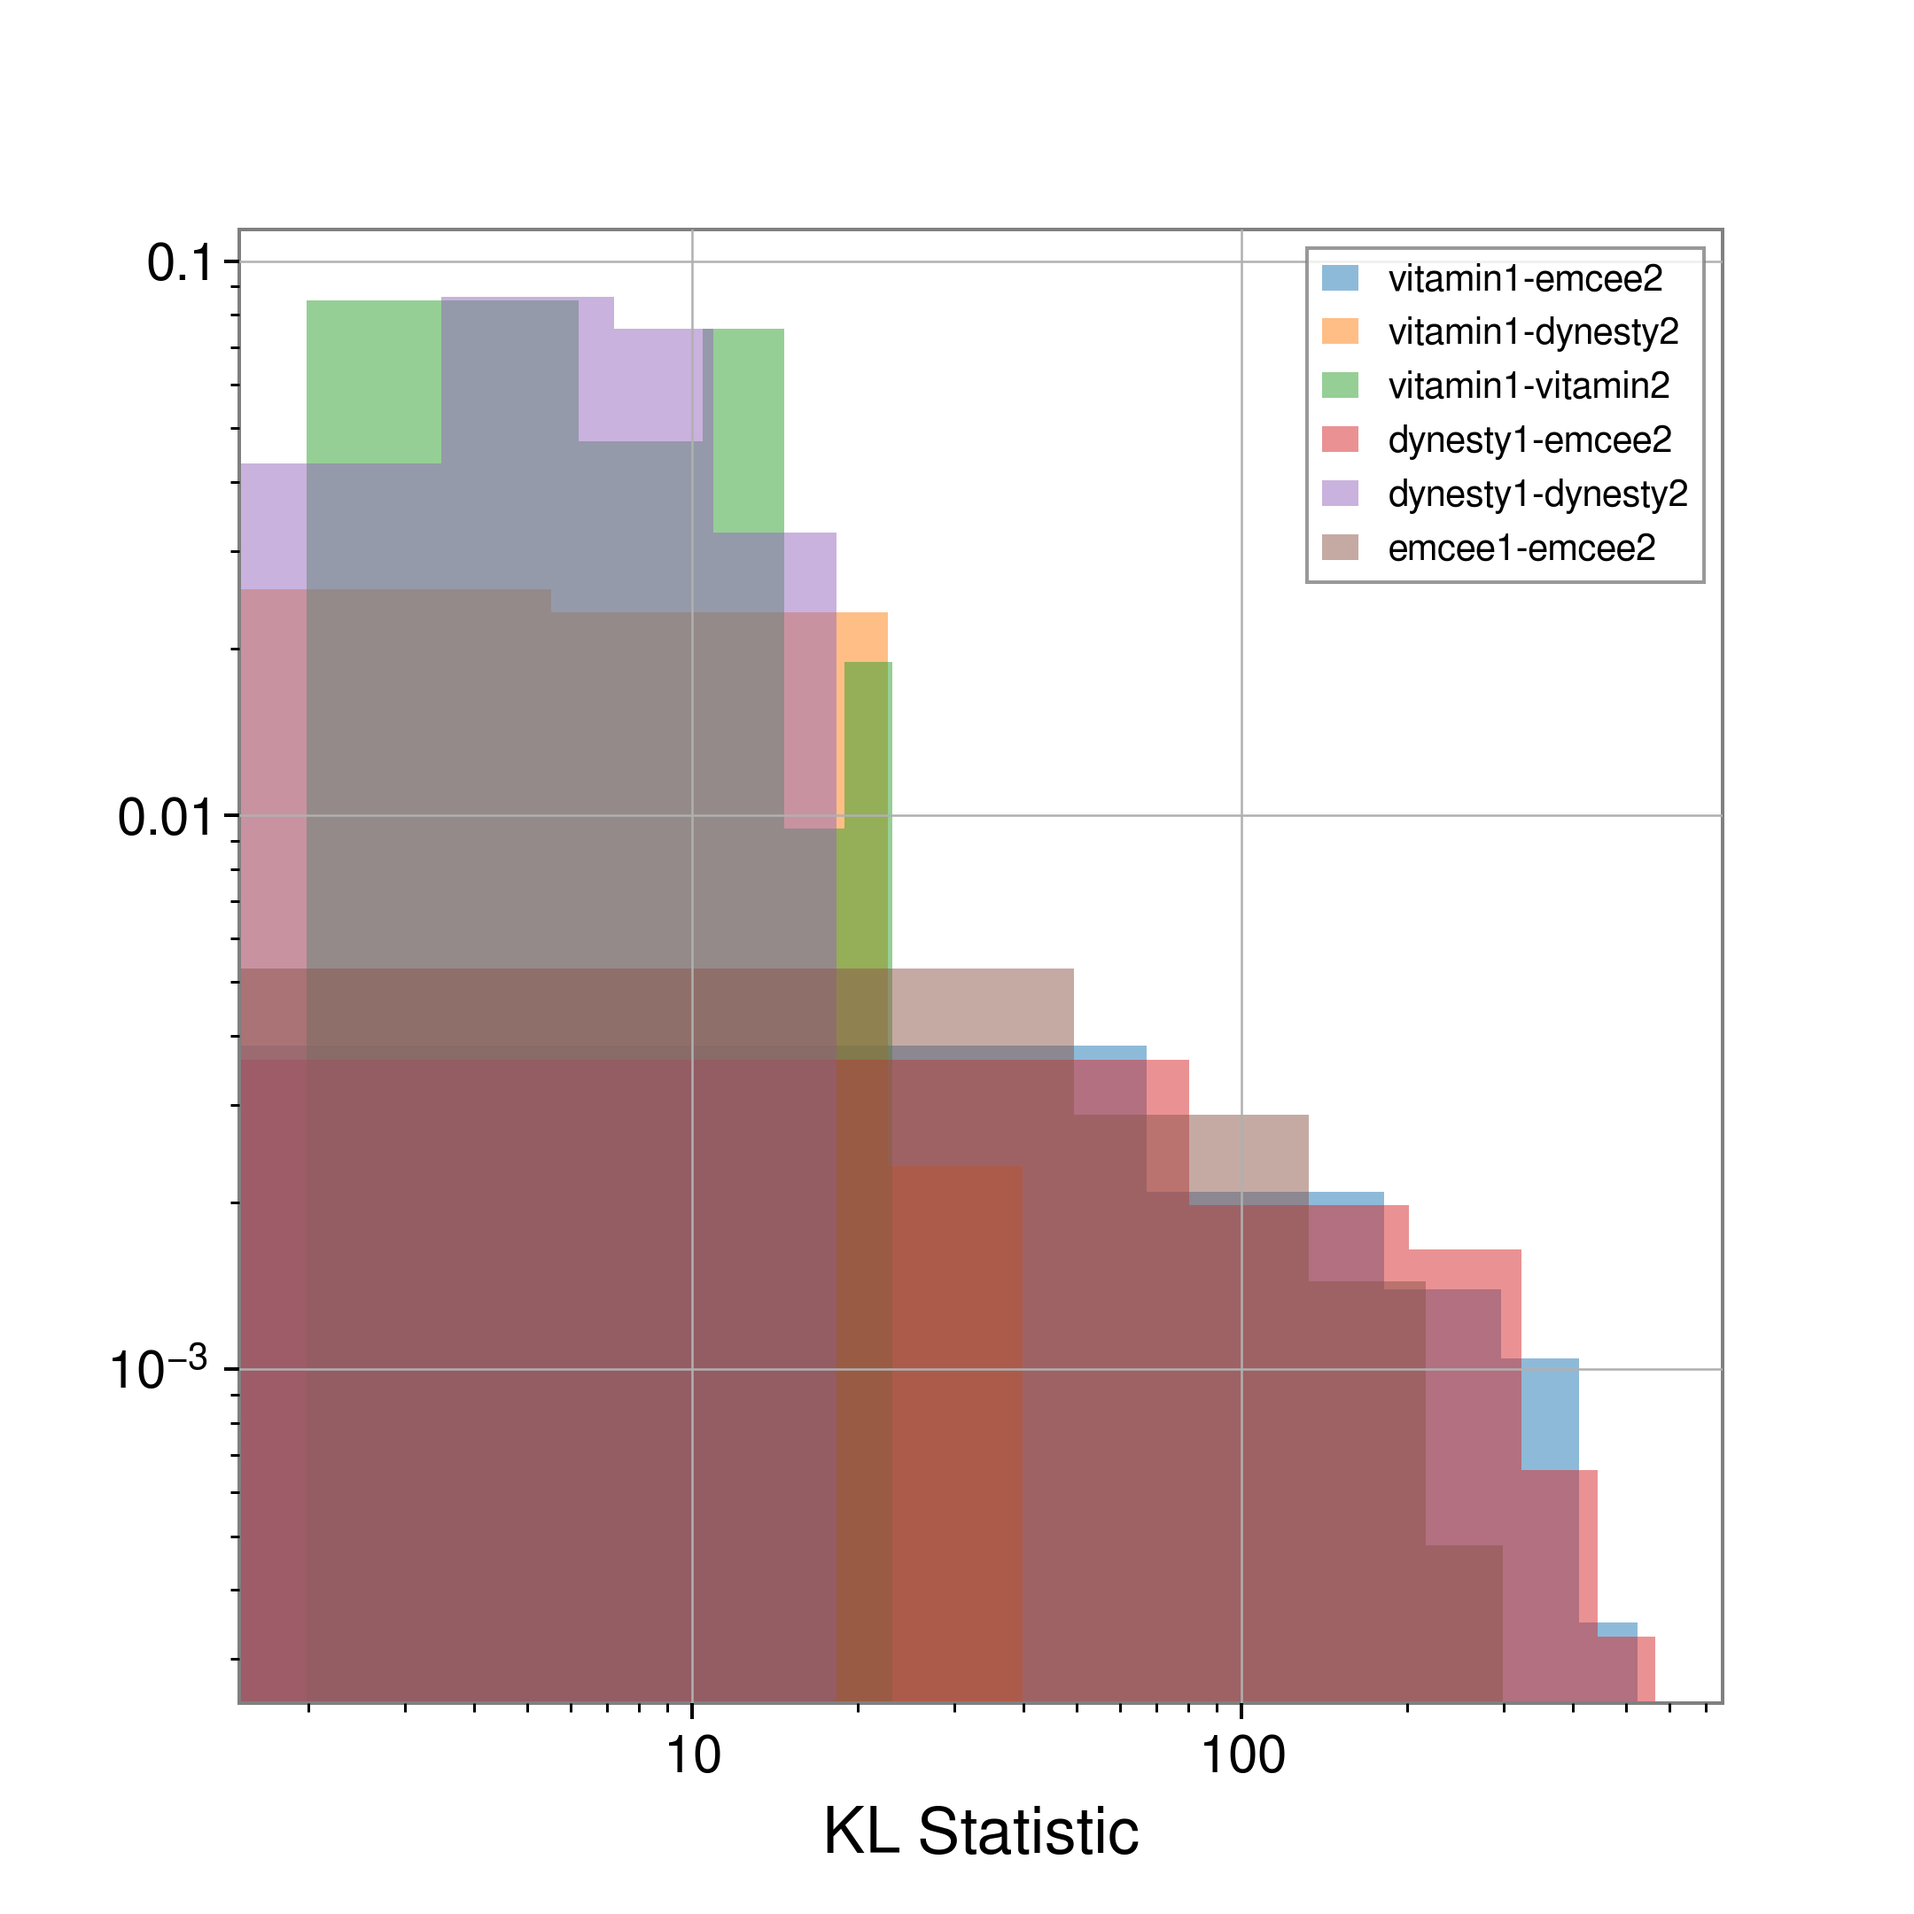
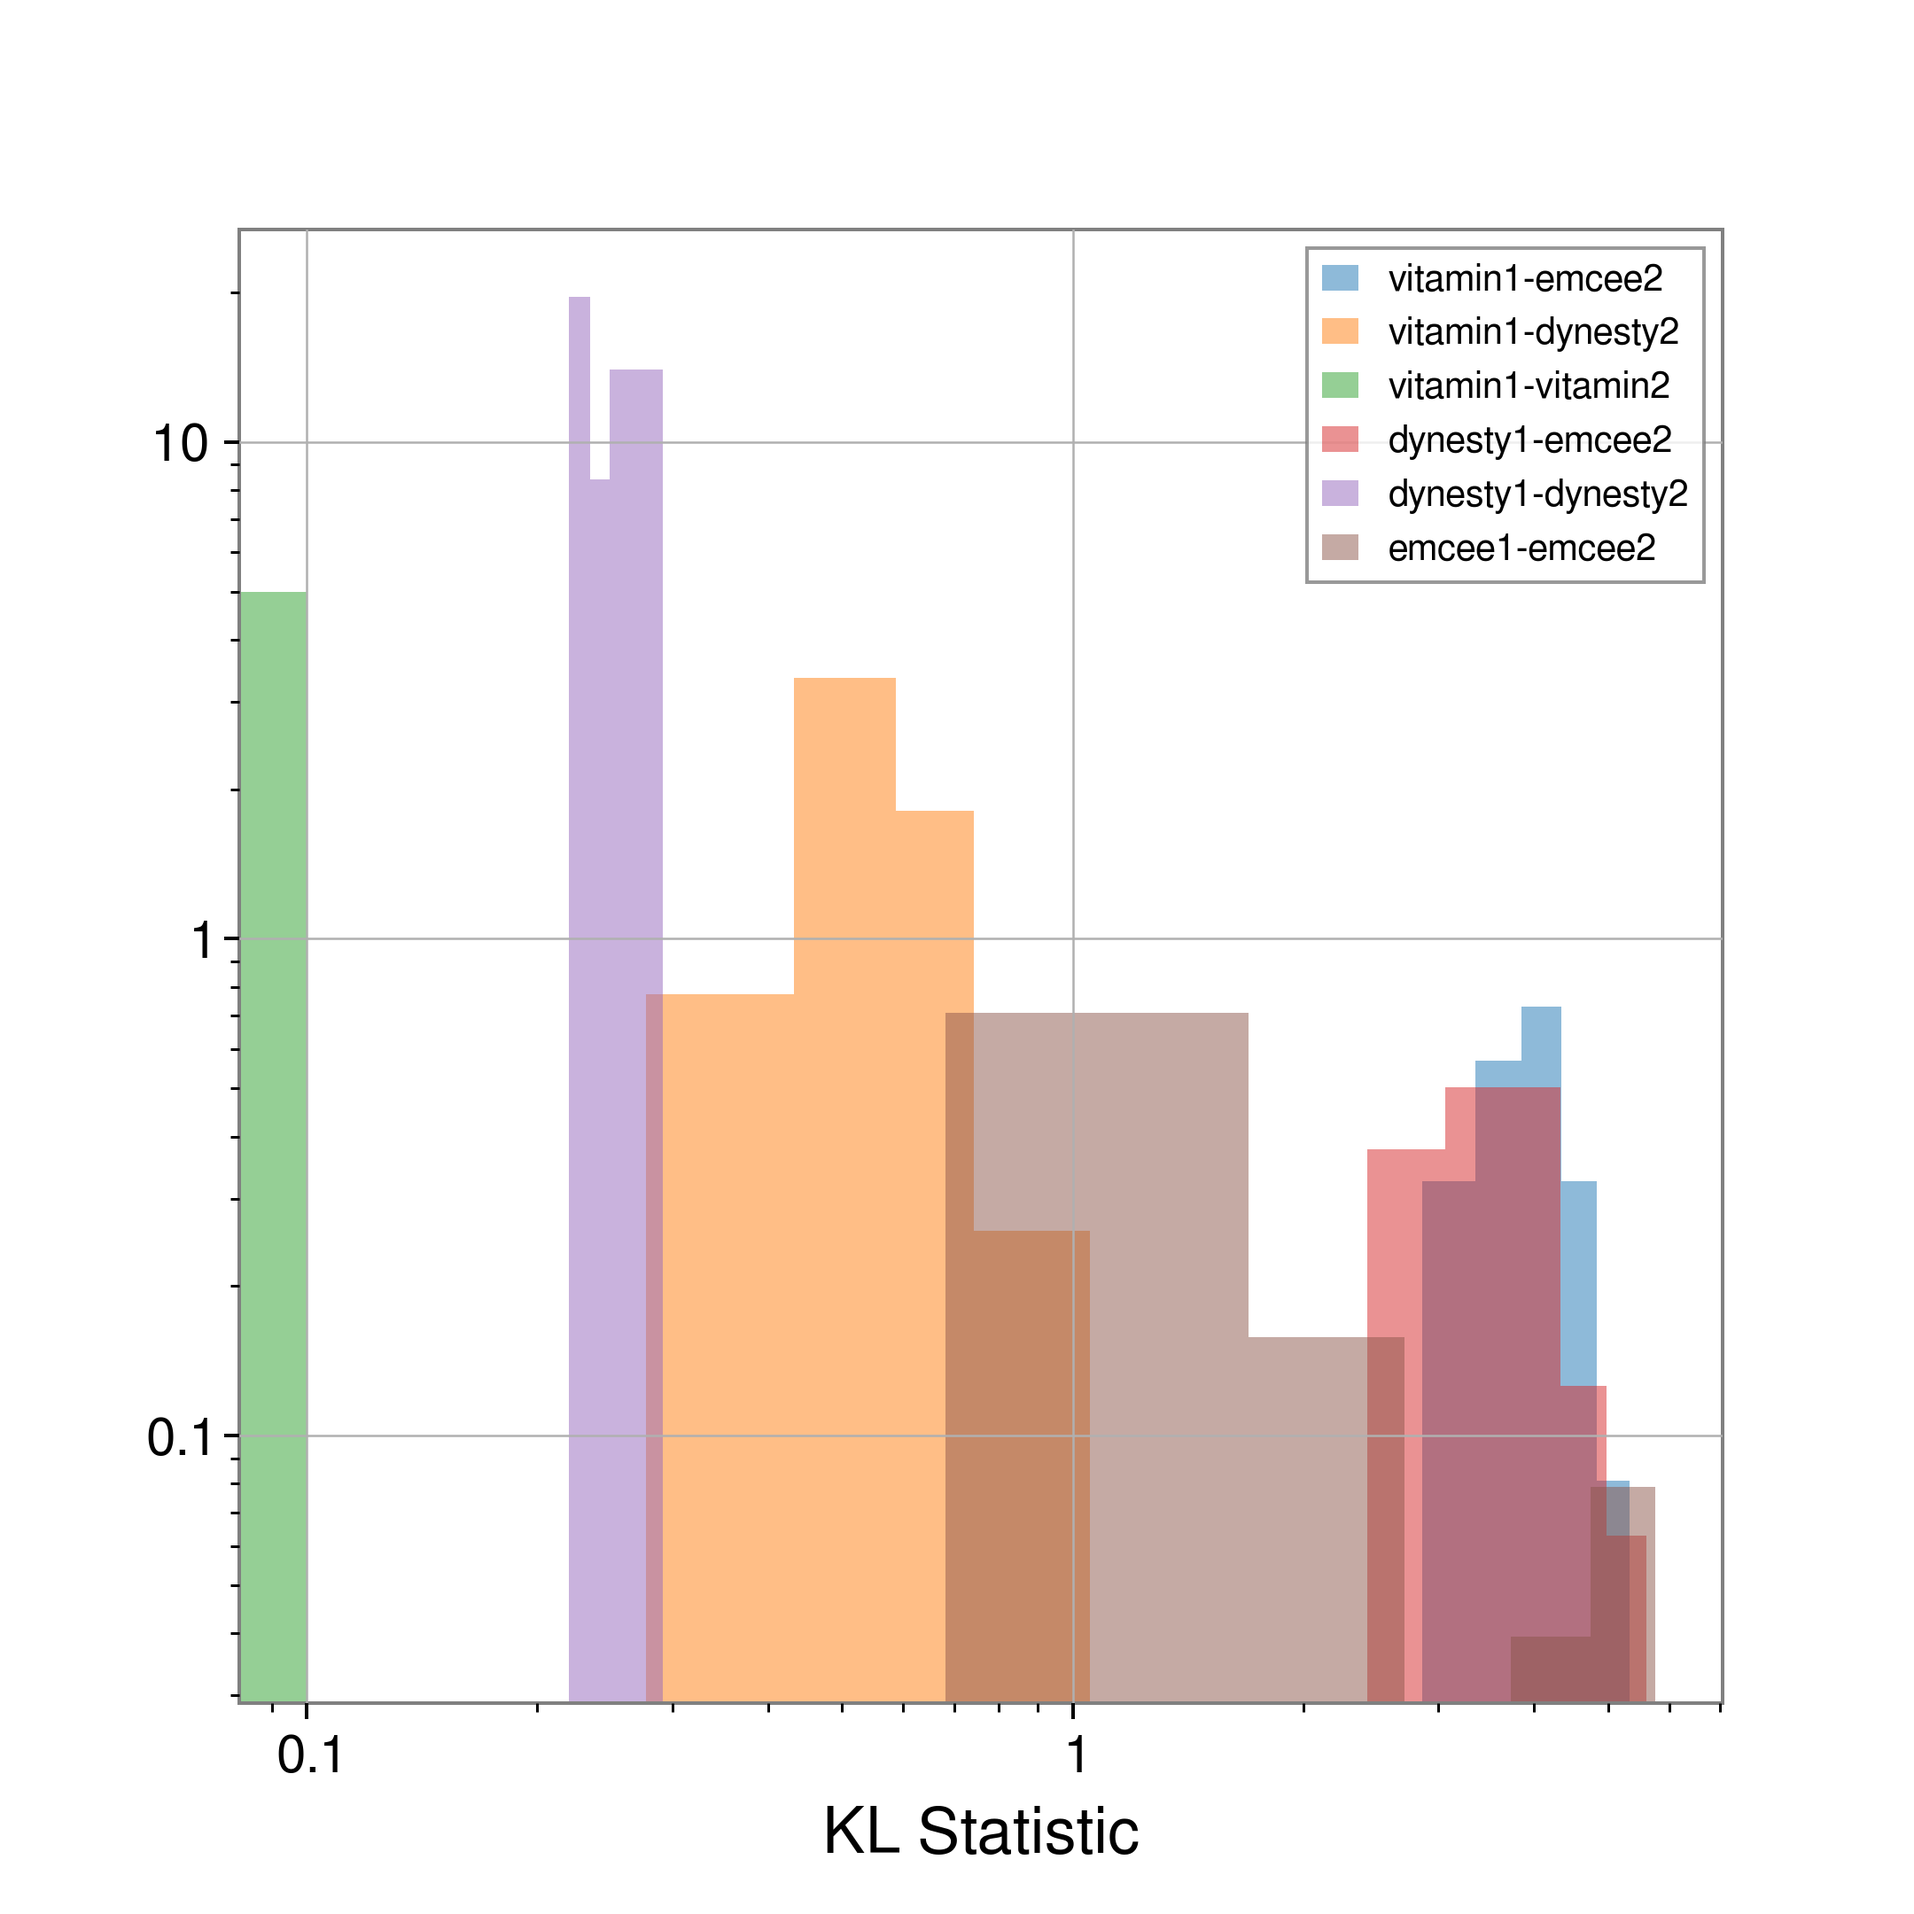
Updated KL and added time table

diff --git a/VItamin.tex b/VItamin.tex
@@ -668,6 +668,24 @@ time (which is unlikely) then it would be good to be able to answer questions
 like, how does the training and sample generation speed scale with length of
 data or network complexity.}
 
+%
+% I feel the need, for speed table
+% 
+\begin{table*}
+ \begin{center}
+   \caption{This is a table which describes the run-times of 
+   various sampler methods.}
+   \begin{tabular}{ |c|c|c|c|c| }
+   \hline
+    & min(time/samp) & max(time/samp) & mean(time/samp) & Ratio \\ 
+   Dynesty & 14.5s & 29.0s & 17.4s & 1.2e-8\\ 
+   Emcee & 49.5s & 121.8s & 61.8s & 3.4e-9\\
+   Vitamin & 2.1e-7s & 2.1e-7s & 2.1e-7s & 1.0 \\ 
+   \hline
+  \end{tabular}
+ \end{center}
+\end{table*}
+
 %%%%%%%%%%%%%%%%%%%%%%%%%%%%%%%%%%%%%%%%%%%%%%%%%%%%%%%%%%%%%%%%%%%%%%
 % CONCLUSIONS
 %%%%%%%%%%%%%%%%%%%%%%%%%%%%%%%%%%%%%%%%%%%%%%%%%%%%%%%%%%%%%%%%%%%%%%
